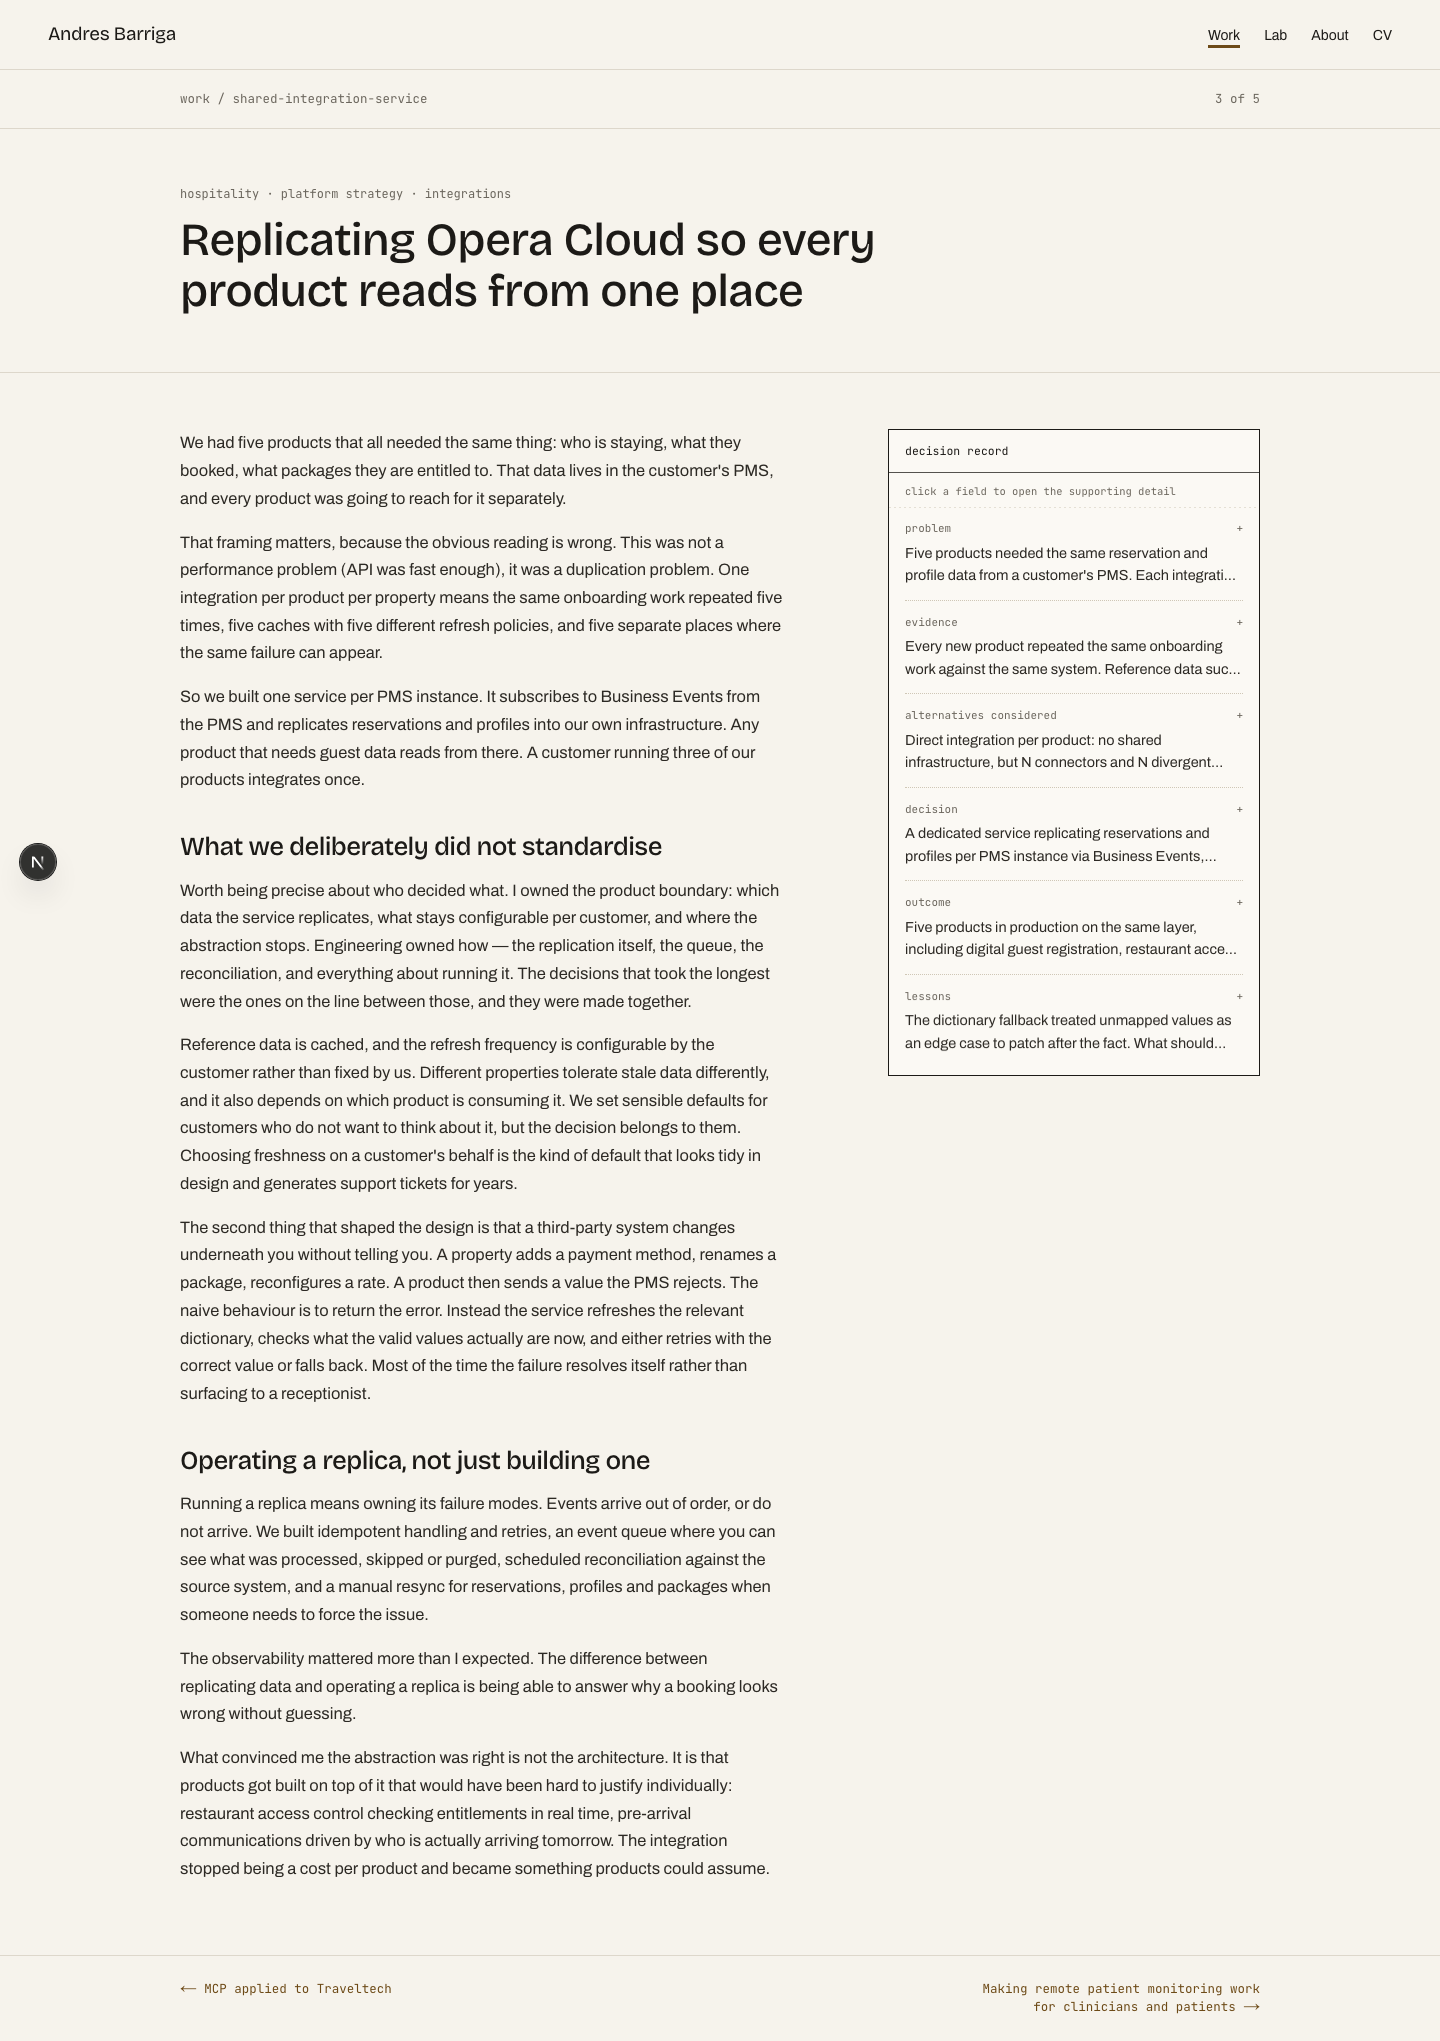
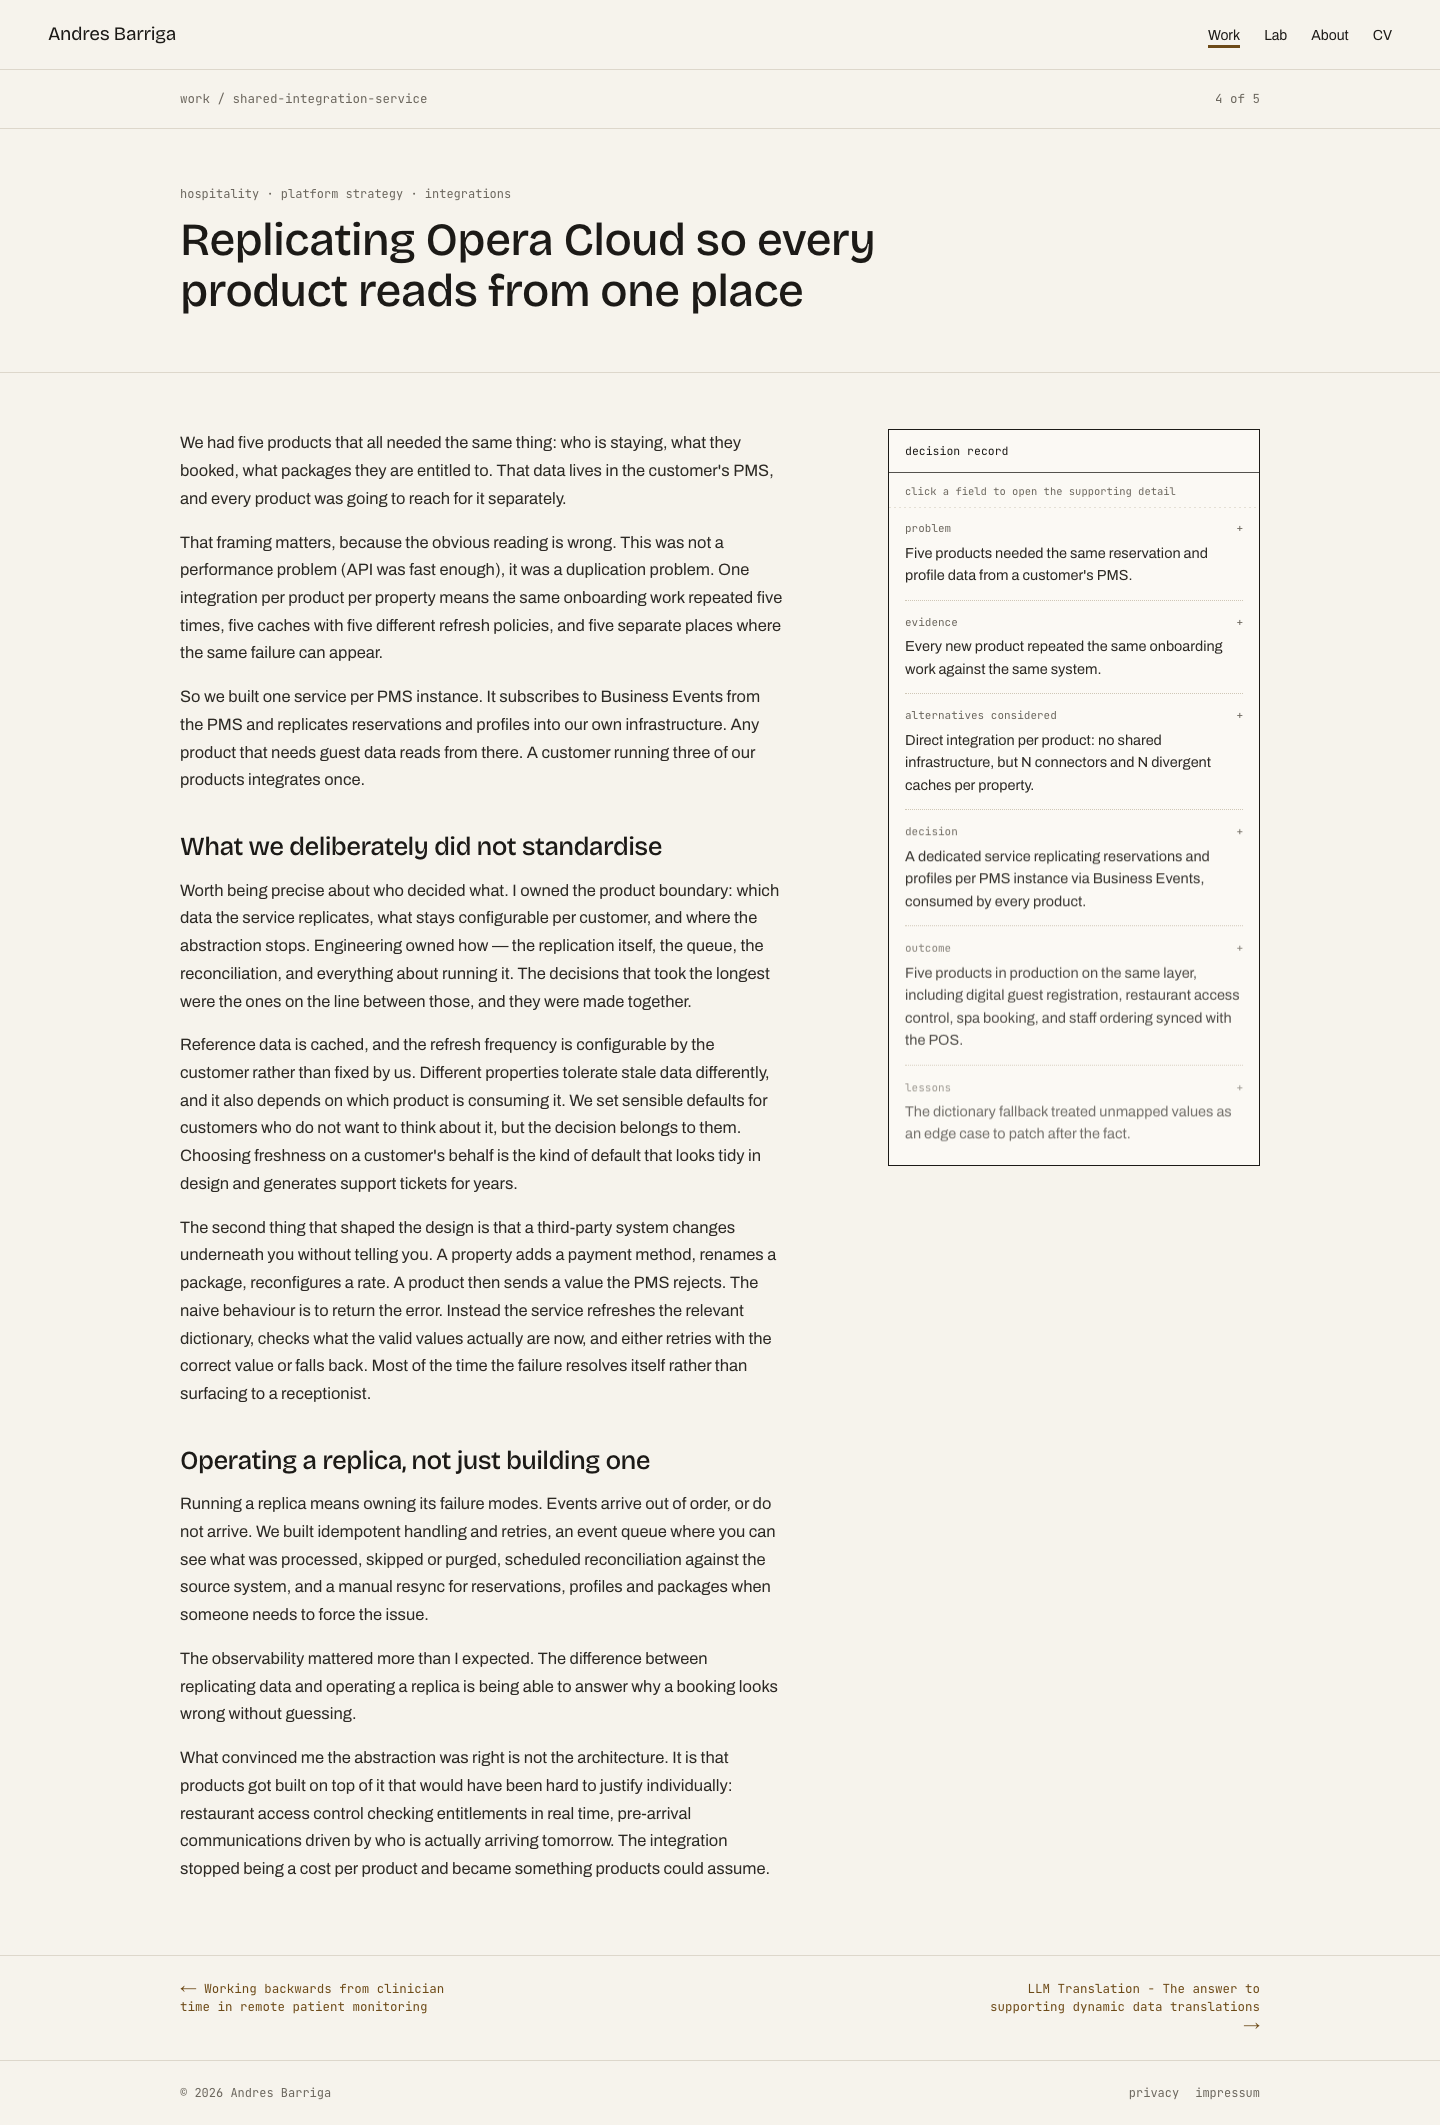
Add case-study trailer fields, fix stuck MDX fallback, fold decision record, tighten analytics
Case studies gain optional takeaway/role/results frontmatter, rendered as
a trailer under the title before the body. The decision record now
collapses to each field's first sentence, expanding the rest on click,
and only shows the +/- toggle when there's actually more to reveal.

Switched the case-study body from a Suspense-wrapped <MDXRemote> to an
awaited evaluate() call: these pages are statically generated once at
build time, so a Suspense boundary that didn't settle in that single
pass left "Loading content…" frozen in the prerendered HTML forever,
as seen on the two cases using <Diagram>.

Replaced document-scanning-decision's content with the trailer fields
filled in. On the analytics side: /no-track now skips posthog.init()
entirely instead of initializing then opting out, since cookieless
"always" mode ignores opt_out_capturing() regardless; and heatmaps,
dead-click capture and web vitals are now off client-side.

diff --git a/app/work/[slug]/page.tsx b/app/work/[slug]/page.tsx
@@ -1,8 +1,7 @@
-import { Suspense } from "react";
 import type { Metadata } from "next";
 import Link from "next/link";
 import { notFound } from "next/navigation";
-import { MDXRemote } from "next-mdx-remote-client/rsc";
+import { evaluate } from "next-mdx-remote-client/rsc";
 import {
   getAllCaseStudies,
   getCaseStudyDescription,
@@ -60,13 +59,23 @@ export default async function CaseStudyPage(props: PageProps<"/work/[slug]">) {
     notFound();
   }
 
-  const { frontmatter, content } = caseStudies[index];
+  const { frontmatter, content: rawContent } = caseStudies[index];
   const components = getMdxComponents({
     href: `/work/${frontmatter.slug}`,
     label: "the case",
   });
   const prev = index > 0 ? caseStudies[index - 1] : undefined;
   const next = index < caseStudies.length - 1 ? caseStudies[index + 1] : undefined;
+
+  // Awaited directly (no Suspense) so the whole body is guaranteed to be
+  // fully compiled before this page renders — these pages are statically
+  // generated once at build time, so a Suspense boundary that didn't
+  // settle in that single pass would leave its "Loading…" fallback frozen
+  // in the prerendered HTML forever (no live server render to resolve it
+  // afterward). A real MDX compile error fails the build loudly instead of
+  // silently shipping a stuck fallback.
+  const { content, error } = await evaluate({ source: rawContent, components });
+  if (error) throw error;
 
   return (
     <article>
@@ -96,20 +105,39 @@ export default async function CaseStudyPage(props: PageProps<"/work/[slug]">) {
           <h1 className="m-0 max-w-[24ch] font-display text-[32px] font-medium leading-[1.1] tracking-[-0.02em] sm:text-[46px]">
             {frontmatter.title}
           </h1>
+
+          {frontmatter.takeaway ? (
+            <p className="mt-5 max-w-[48ch] font-display text-[19px] font-medium leading-[1.35] tracking-[-0.01em] text-ink sm:line-clamp-2 sm:text-[21px]">
+              {frontmatter.takeaway}
+            </p>
+          ) : null}
+
+          {frontmatter.results?.length ? (
+            <div className="mt-6 flex flex-col gap-4 sm:flex-row sm:flex-wrap sm:gap-10">
+              {frontmatter.results.slice(0, 3).map((result, i) => (
+                <div key={i}>
+                  <p className="m-0 font-display text-[26px] font-medium leading-none tracking-[-0.01em] text-ink">
+                    {result.value}
+                  </p>
+                  <p className="m-0 mt-1 max-w-[22ch] font-mono text-[11px] leading-[1.4] text-meta">
+                    {result.label}
+                  </p>
+                </div>
+              ))}
+            </div>
+          ) : null}
+
+          {frontmatter.role ? (
+            <p className="m-0 mt-6 font-mono text-[12px] text-meta">
+              {frontmatter.role}
+            </p>
+          ) : null}
         </div>
       </div>
 
       <div className="px-6 py-10 sm:px-12 sm:py-14">
         <div className="mx-auto grid w-full max-w-[1080px] grid-cols-1 gap-10 lg:grid-cols-[1fr_372px] lg:items-start lg:gap-14">
-          <div>
-            <Suspense
-              fallback={
-                <p className="font-mono text-sm text-meta">Loading content…</p>
-              }
-            >
-              <MDXRemote source={content} components={components} />
-            </Suspense>
-          </div>
+          <div>{content}</div>
           <DecisionRecord data={frontmatter} fields={CASE_STUDY_FIELDS} />
         </div>
       </div>

diff --git a/src/components/DecisionRecord.tsx b/src/components/DecisionRecord.tsx
@@ -44,6 +44,16 @@ const darkTheme: Theme = {
 const ROW_BASE_DELAY_MS = 150;
 const ROW_STAGGER_MS = 60;
 
+// Same first-sentence heuristic as getCaseStudyDescription/
+// getLabProjectDescription in src/lib/content.ts — split at the first
+// sentence-ending punctuation followed by whitespace or end of string.
+function splitFirstSentence(text: string): { first: string; rest: string } {
+  const match = text.match(/[.!?](?=\s|$)/);
+  if (!match || match.index === undefined) return { first: text, rest: "" };
+  const splitAt = match.index + 1;
+  return { first: text.slice(0, splitAt).trim(), rest: text.slice(splitAt).trim() };
+}
+
 export function DecisionRecord<T extends { slug: string }>({
   data,
   fields,
@@ -111,6 +121,10 @@ export function DecisionRecord<T extends { slug: string }>({
           const isOpen = openFields[String(key)] ?? false;
           const value = data[key];
           const isLast = index === fields.length - 1;
+          const { first, rest } = splitFirstSentence(
+            typeof value === "string" ? value : ""
+          );
+          const hasRest = rest.length > 0;
 
           return (
             <div
@@ -125,24 +139,33 @@ export function DecisionRecord<T extends { slug: string }>({
               }}
             >
               <dt className="m-0">
-                <button
-                  type="button"
-                  onClick={() => toggle(String(key))}
-                  aria-expanded={isOpen}
-                  className={`flex w-full cursor-pointer items-baseline justify-between gap-2 border-0 bg-transparent p-0 text-left font-mono text-[11px] ${t.meta}`}
-                >
-                  <span>{label}</span>
-                  <span aria-hidden="true">{isOpen ? "–" : "+"}</span>
-                </button>
+                {hasRest ? (
+                  <button
+                    type="button"
+                    onClick={() => toggle(String(key))}
+                    aria-expanded={isOpen}
+                    className={`flex w-full cursor-pointer items-baseline justify-between gap-2 border-0 bg-transparent p-0 text-left font-mono text-[11px] ${t.meta}`}
+                  >
+                    <span>{label}</span>
+                    <span aria-hidden="true">{isOpen ? "–" : "+"}</span>
+                  </button>
+                ) : (
+                  <span
+                    className={`flex w-full items-baseline justify-between gap-2 font-mono text-[11px] ${t.meta}`}
+                  >
+                    {label}
+                  </span>
+                )}
               </dt>
               <dd
                 className={
                   isOpen
                     ? `m-0 mt-[5px] whitespace-pre-line border-l-2 ${t.accent} pl-3 text-[14.5px] leading-[1.6] ${t.body}`
-                    : `m-0 mt-[5px] line-clamp-2 text-[14.5px] leading-[1.55] ${t.body}`
+                    : `m-0 mt-[5px] text-[14.5px] leading-[1.55] ${t.body}`
                 }
               >
-                {typeof value === "string" ? value : ""}
+                {first}
+                {isOpen && hasRest ? ` ${rest}` : ""}
               </dd>
             </div>
           );

diff --git a/src/components/AnalyticsProvider.tsx b/src/components/AnalyticsProvider.tsx
@@ -24,6 +24,12 @@ function initPostHogIfNeeded() {
 
   if (typeof window === "undefined") return;
   if (process.env.NODE_ENV !== "production") return;
+  // Opting out after init doesn't actually stop posthog-js's own
+  // autocaptures here: with cookieless_mode "always", its internal
+  // is_capturing() check returns true unconditionally, ignoring
+  // opt_out_capturing() entirely. So /no-track must never call
+  // posthog.init() in the first place, rather than init-then-opt-out.
+  if (window.location.pathname === "/no-track") return;
   if (isNoTrackFlagSet()) return;
 
   const key = process.env.NEXT_PUBLIC_POSTHOG_KEY;
@@ -48,9 +54,16 @@ function initPostHogIfNeeded() {
     // don't want every click captured — the position-based heatmap below
     // and our own named events already cover the clicks that matter.
     autocapture: false,
-    // Aggregate mouse-position and scroll heatmap data (not session
-    // replay). Scrollmap needs capture_pageleave (already on below).
-    enable_heatmaps: true,
+    // Heatmaps, dead-click detection and web vitals/performance capture
+    // are all off: our own named events plus scroll_depth already cover
+    // the engagement signals that matter here, and each of these loads
+    // its own extra script and fires its own background event traffic for
+    // very little incremental insight on a low-traffic portfolio site.
+    // (`capture_heatmaps` is the current option name — `enable_heatmaps`
+    // still works but is deprecated.)
+    capture_heatmaps: false,
+    capture_dead_clicks: false,
+    capture_performance: false,
     // We capture pageviews ourselves in PageviewTracker (below), once per
     // App Router navigation, instead of relying on posthog-js's own
     // full-page-load detection.

diff --git a/src/lib/types.ts b/src/lib/types.ts
@@ -5,6 +5,15 @@ export interface CaseStudyFrontmatter {
   focus: string;
   /** Optional; the index row and header show only industry + focus when omitted. */
   tech?: string;
+  /** Optional one-sentence hook rendered large under the title/tags, before
+   * the body. Omitted entirely (no empty space) when not set. */
+  takeaway?: string;
+  /** Optional one-line statement of the author's specific contribution,
+   * rendered metadata-style in the trailer. */
+  role?: string;
+  /** Optional headline numbers (max 3) rendered as a stat row in the
+   * trailer, each a big value with a mono label underneath. */
+  results?: { value: string; label: string }[];
   problem: string;
   evidence: string;
   alternatives: string;

diff --git a/CLAUDE.md b/CLAUDE.md
@@ -40,6 +40,19 @@ title, slug, problem, evidence, alternatives, decision, outcome, lessons
 Every field must be filled — an empty or vague field is a content gap,
 not something to paper over with generic language.
 
+Optional trailer fields (rendered under the title and tags, before the
+body — omitted entirely, no placeholder space, when a case doesn't set
+them):
+
+```
+takeaway?, role?, results?
+```
+
+`takeaway` is one sentence (large text, max two lines on desktop).
+`role` is one sentence, metadata-style. `results` is at most 3
+`{value, label}` pairs rendered as a stat row (e.g. `{ value: '~50%',
+label: 'faster registration when guests scan' }`).
+
 Lab projects (`content/lab/*.mdx` frontmatter):
 
 ```
